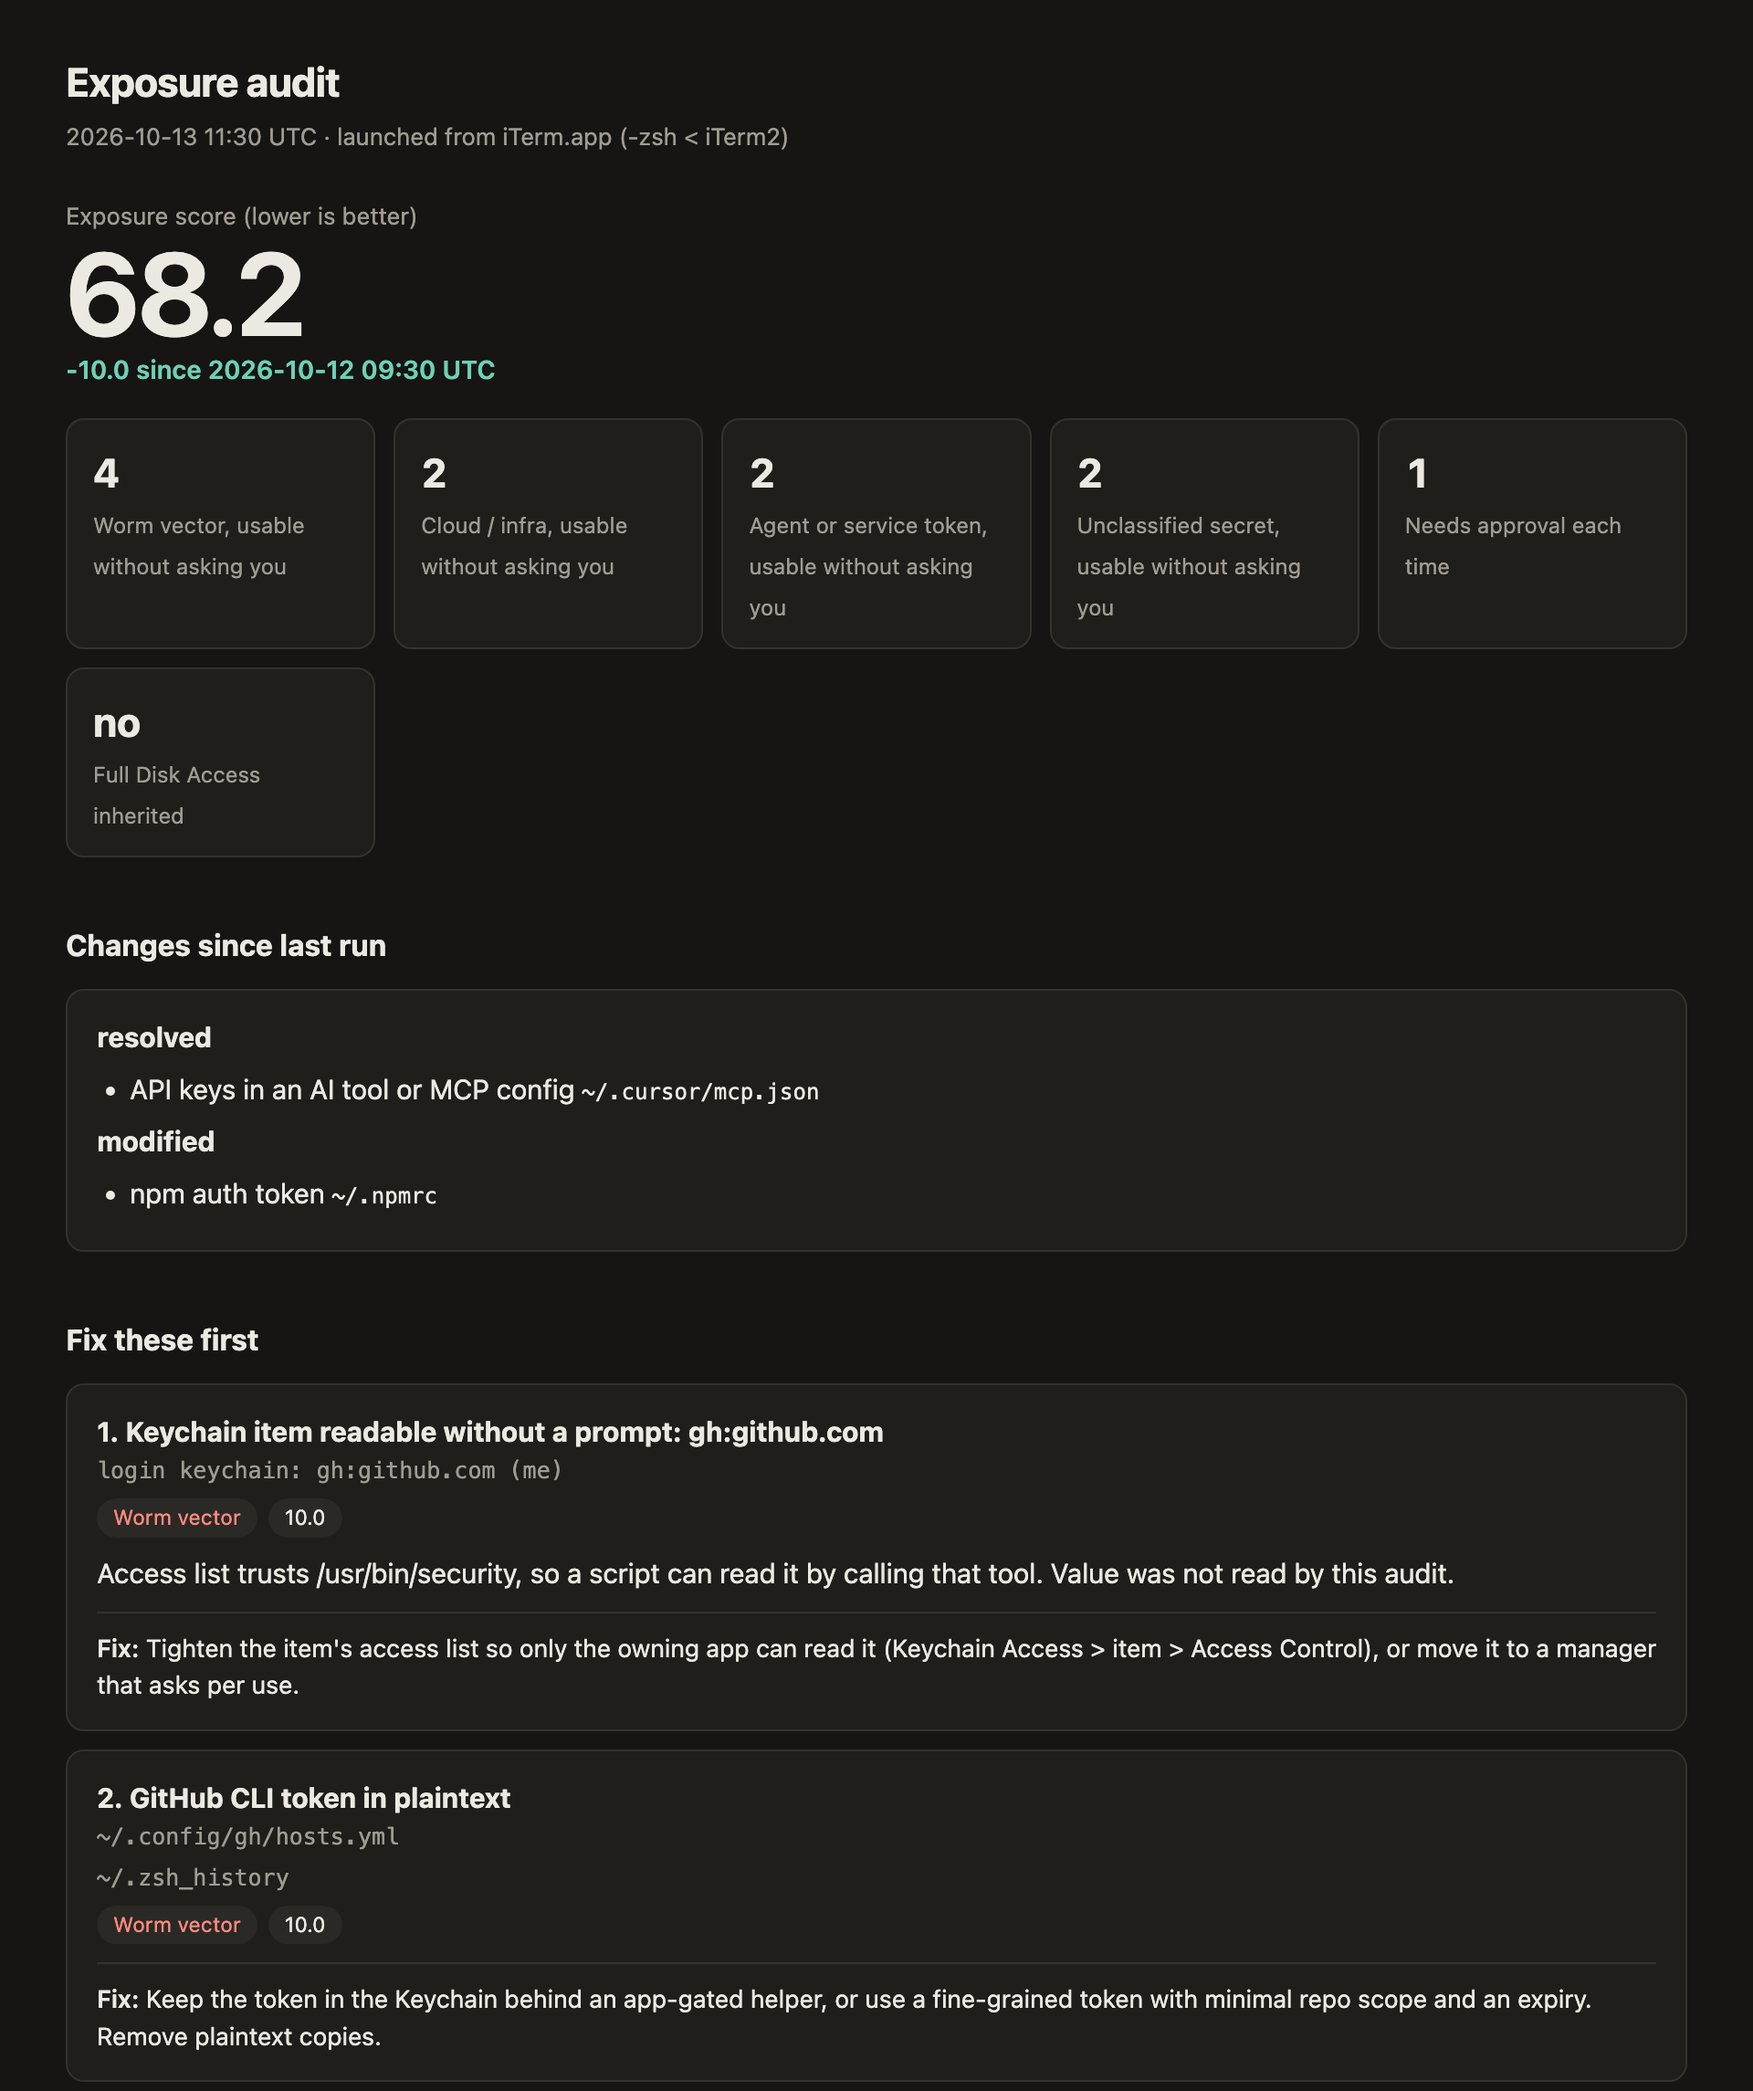
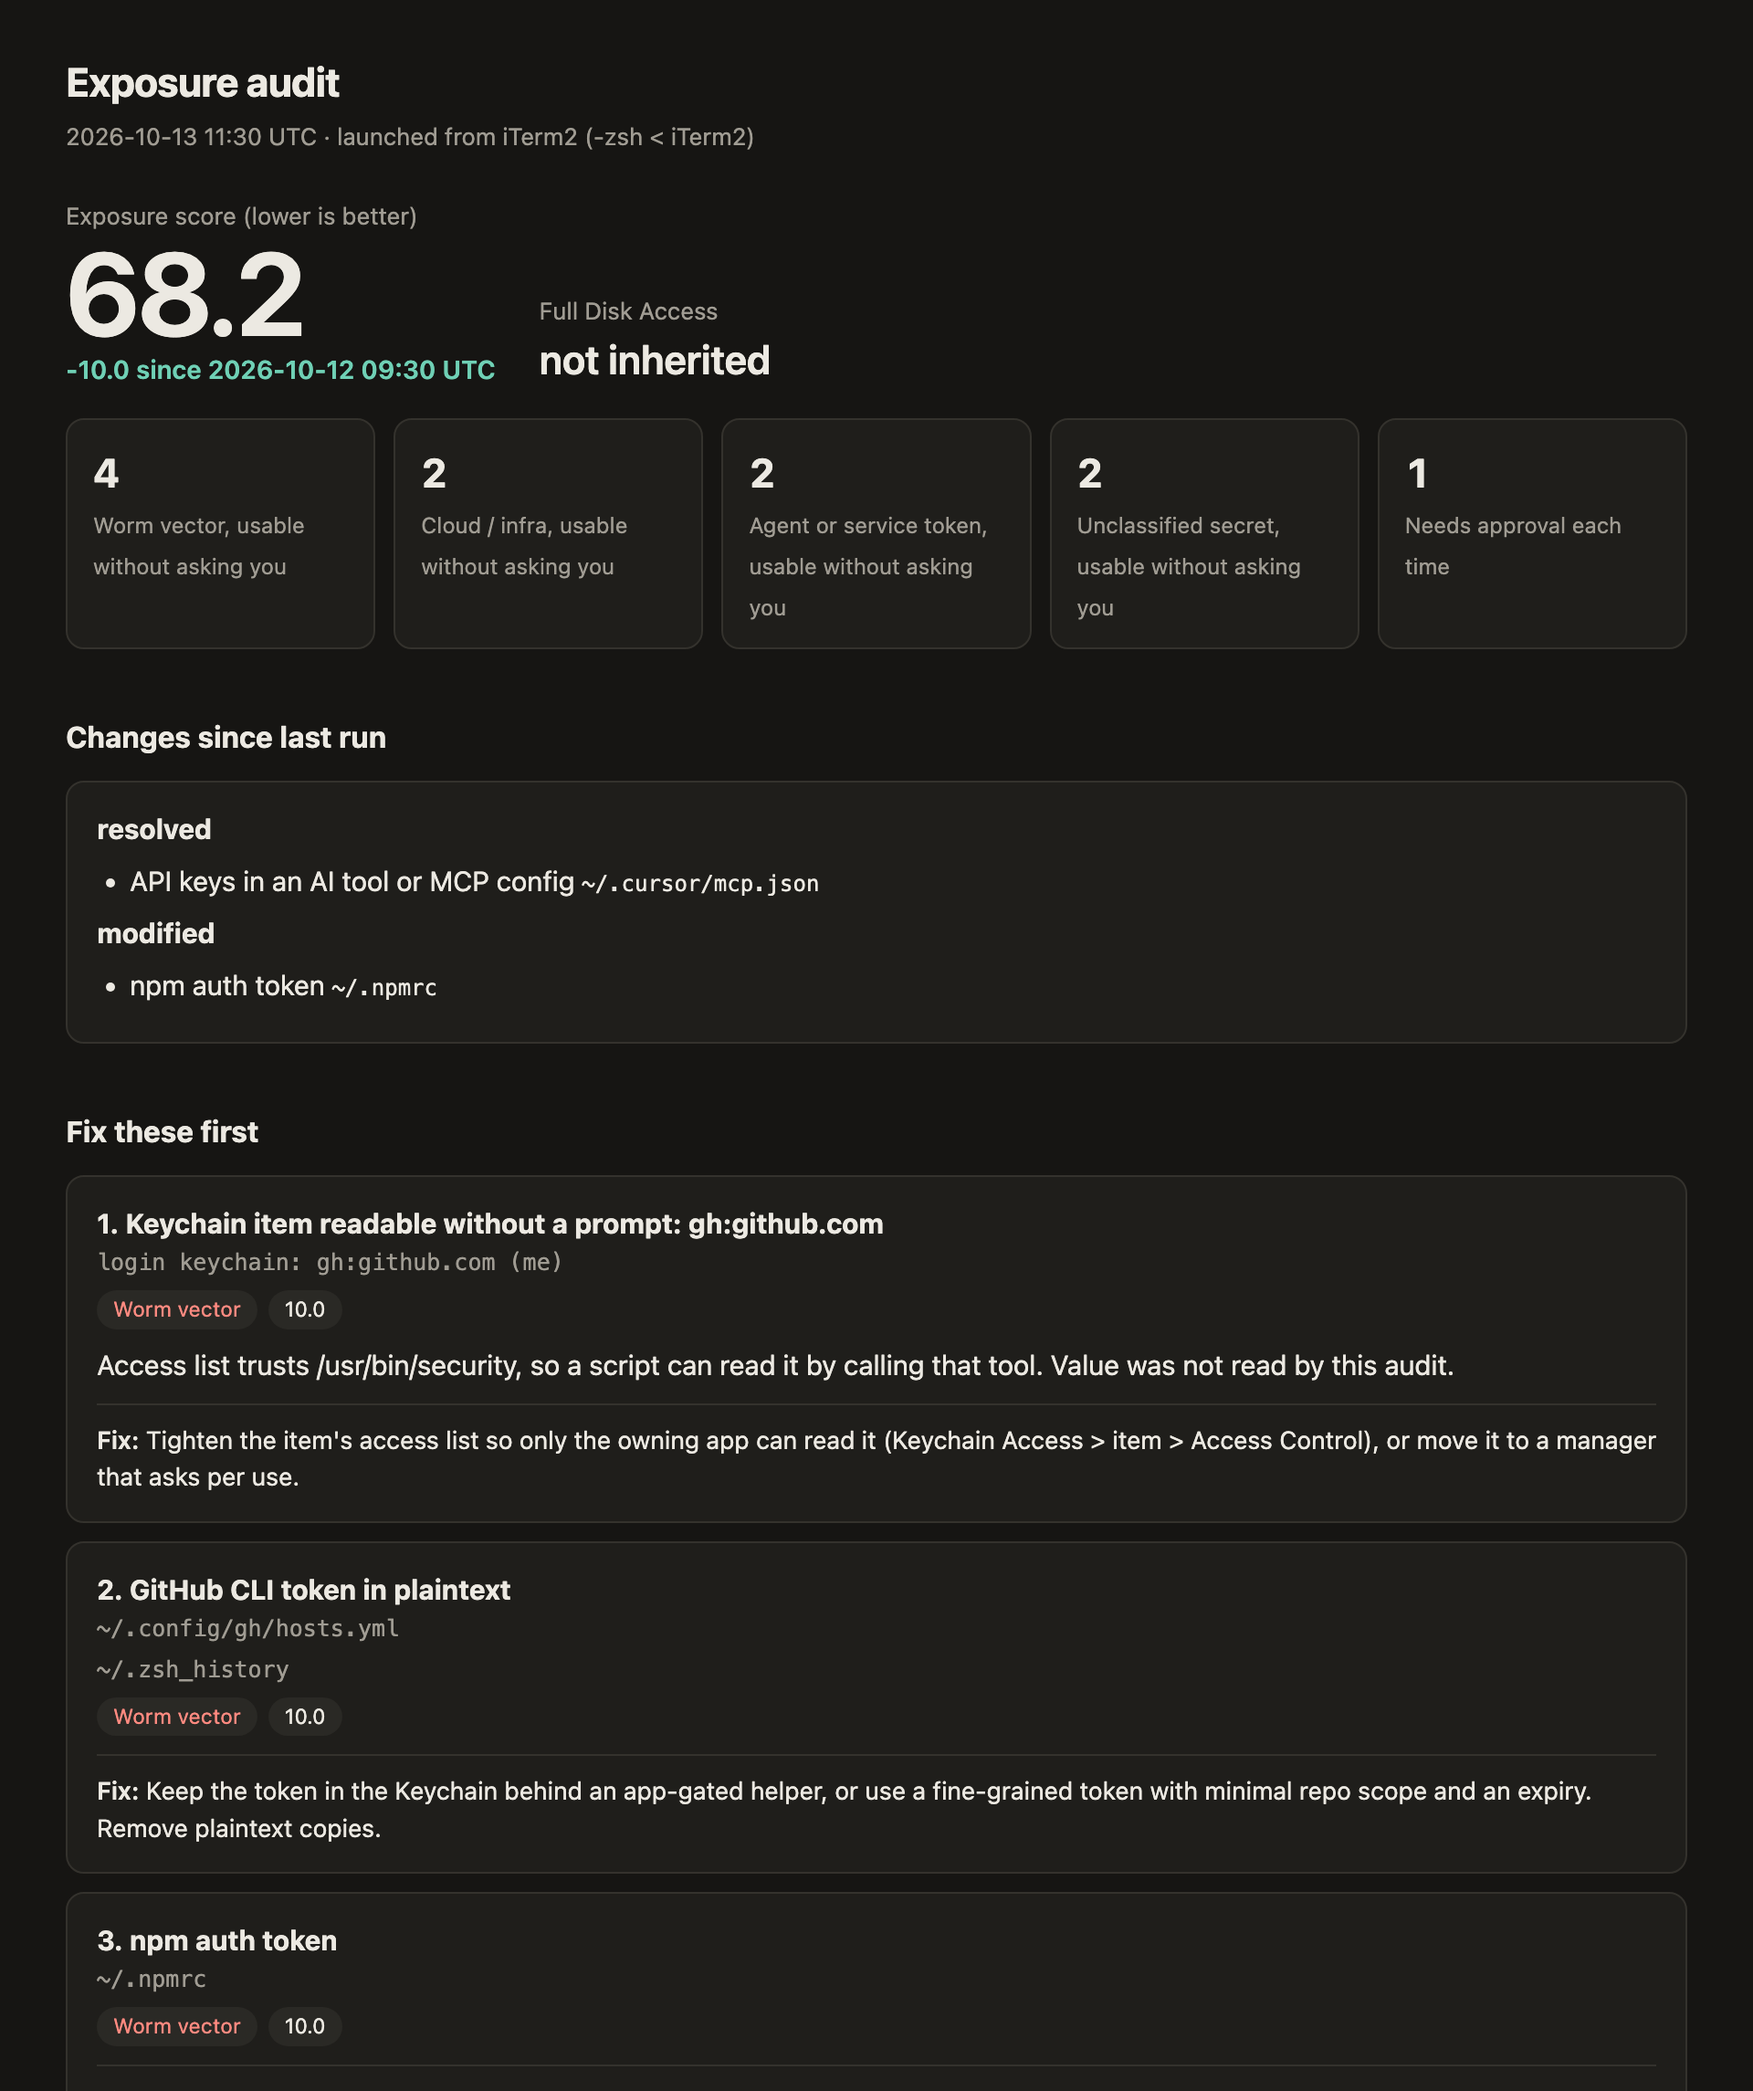
README, HANDOFF: screenshots, sample and spec match A-66 to A-72

diff --git a/HANDOFF.md b/HANDOFF.md
@@ -281,7 +281,7 @@ Decisions 7–9 are the response. The ranking fixture in section 11 encodes it.
 
 **Context key.** Each snapshot records the launching application and whether the shell runs under a coding agent. Diffs compare only against the most recent snapshot with the same key.
 
-- **Application:** `__CFBundleIdentifier` from the environment, falling back to `TERM_PROGRAM`, then `unknown` ([A-05](REVIEW.md#a-05)). The `ps` parent chain is for display only. Observed on a developer Mac: inside tmux, `TERM_PROGRAM` is `tmux` and the chain ends at `tmux`, but `__CFBundleIdentifier` still held the terminal's bundle id.
+- **Application:** `__CFBundleIdentifier` from the environment, falling back to `TERM_PROGRAM`, then `unknown` ([A-05](REVIEW.md#a-05)). The `ps` parent chain is for display only. Observed on a developer Mac: inside tmux, `TERM_PROGRAM` is `tmux` and the chain ends at `tmux`, but `__CFBundleIdentifier` still held the terminal's bundle id. The key keeps the raw identifier; output shows common ones by app name (`com.mitchellh.ghostty` as Ghostty), so a new name never splits history ([A-68](REVIEW.md#a-68)).
 - **Agent:** whether the parent chain (process names from `/bin/ps -o ppid=,comm= -p <pid>`, up to 8 levels) contains `claude`, `codex`, `cursor-agent`, `gemini`, `aider` or `goose`. Agent shells differ: the same terminal and tmux session gained `CLAUDE_CODE_MESSAGING_TOKEN` under Claude Code.
 - **Not Full Disk Access** ([A-06](REVIEW.md#a-06)). Revoking it is a recommended fix; putting it in the key would reset history at that moment. A change in Full Disk Access is reported as a diff event.
 
@@ -297,6 +297,8 @@ exposure-audit -sanitize-keychain-sample
 ```
 
 - Default output is the terminal summary: score and delta, finding and credential counts, launching app and agent, Full Disk Access, the top 5 "Fix first" items with a count of any left out, each change since the last run by name, collector notes, and one Prevention line that counts settings on and safe by default and names the ones to fix, grouped by tool.
+- Times display in the zone the tool ran in; history stays UTC. An unchanged score reads "no change". A usage mistake prints one line naming it and a pointer to `-h`; only `-h` prints the full help. With `-open`, the summary points at the report instead of at `-open`, and says on stderr that it waits for the browser before deleting the report ([A-66](REVIEW.md#a-66), [A-67](REVIEW.md#a-67), [A-69](REVIEW.md#a-69)).
+- Fix text marks commands, paths and settings with backticks: the report renders them as code, the terminal strips them ([A-72](REVIEW.md#a-72)).
 - `-json` prints the snapshot (no Keychain names, decision 16).
 - `-roots` defaults to the home directory; `-max-depth` to 5. Each `-roots` element is made absolute from the current directory, a leading `~` expands to the home (the shell does not expand it after a comma), and empty elements are ignored. A root that is not an existing directory is a usage error (exit 2, decision 18); a root inside a protected folder is not checked, since looking could raise the prompt. Accepted gap: parseFlags runs before Full Disk Access is inferred, so with Full Disk Access `yes` and no `-probe-folders`, a mistyped root inside a protected folder is walked, finds nothing, and the sweep reports complete. A root that is, or resolves through a symlink into, a protected folder is skipped unless `-probe-folders` is set or Full Disk Access is inferred `yes` (decision 17). Nested or repeated roots report each file once, and a nested root still reaches past `-max-depth` from its own top ([A-57](REVIEW.md#a-57), [A-60](REVIEW.md#a-60)).
 - Exit codes per decision 18.

diff --git a/README.md b/README.md
@@ -25,7 +25,7 @@ Running it with no flags prints a summary in the terminal:
 ```text
 Exposure score (lower is better): 68.2  (-10.0 since 2026-10-12 09:30 UTC)
 Findings: 11 · credentials: 11 · worm vectors usable without a prompt: 4
-Launched from: iTerm.app (-zsh < iTerm2)
+Launched from: iTerm2 (-zsh < iTerm2)
 Full Disk Access: no
 
 Fix first:
